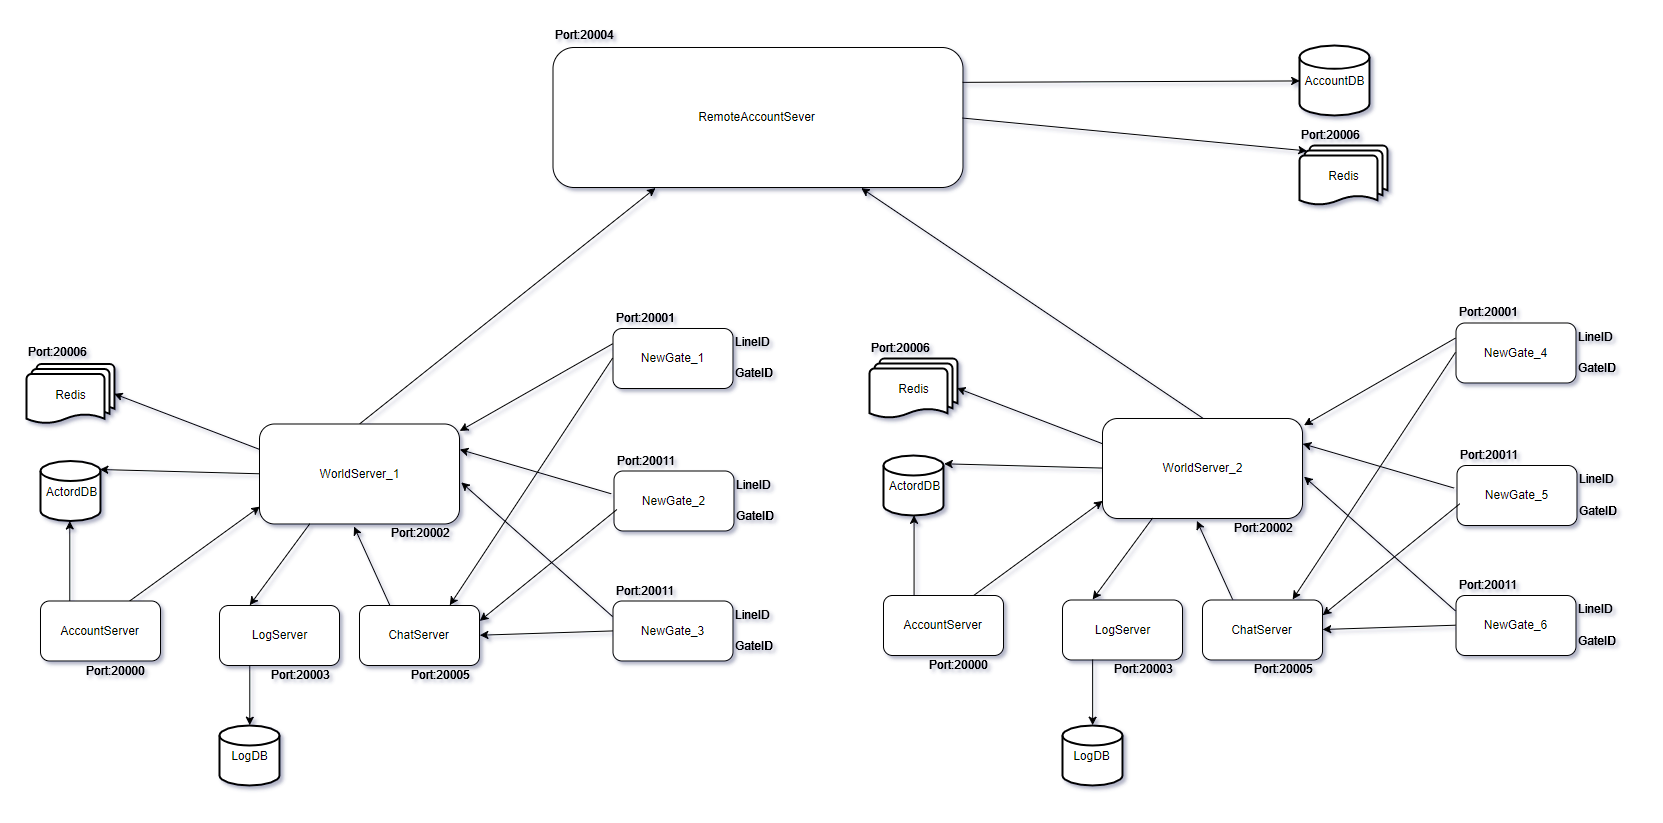
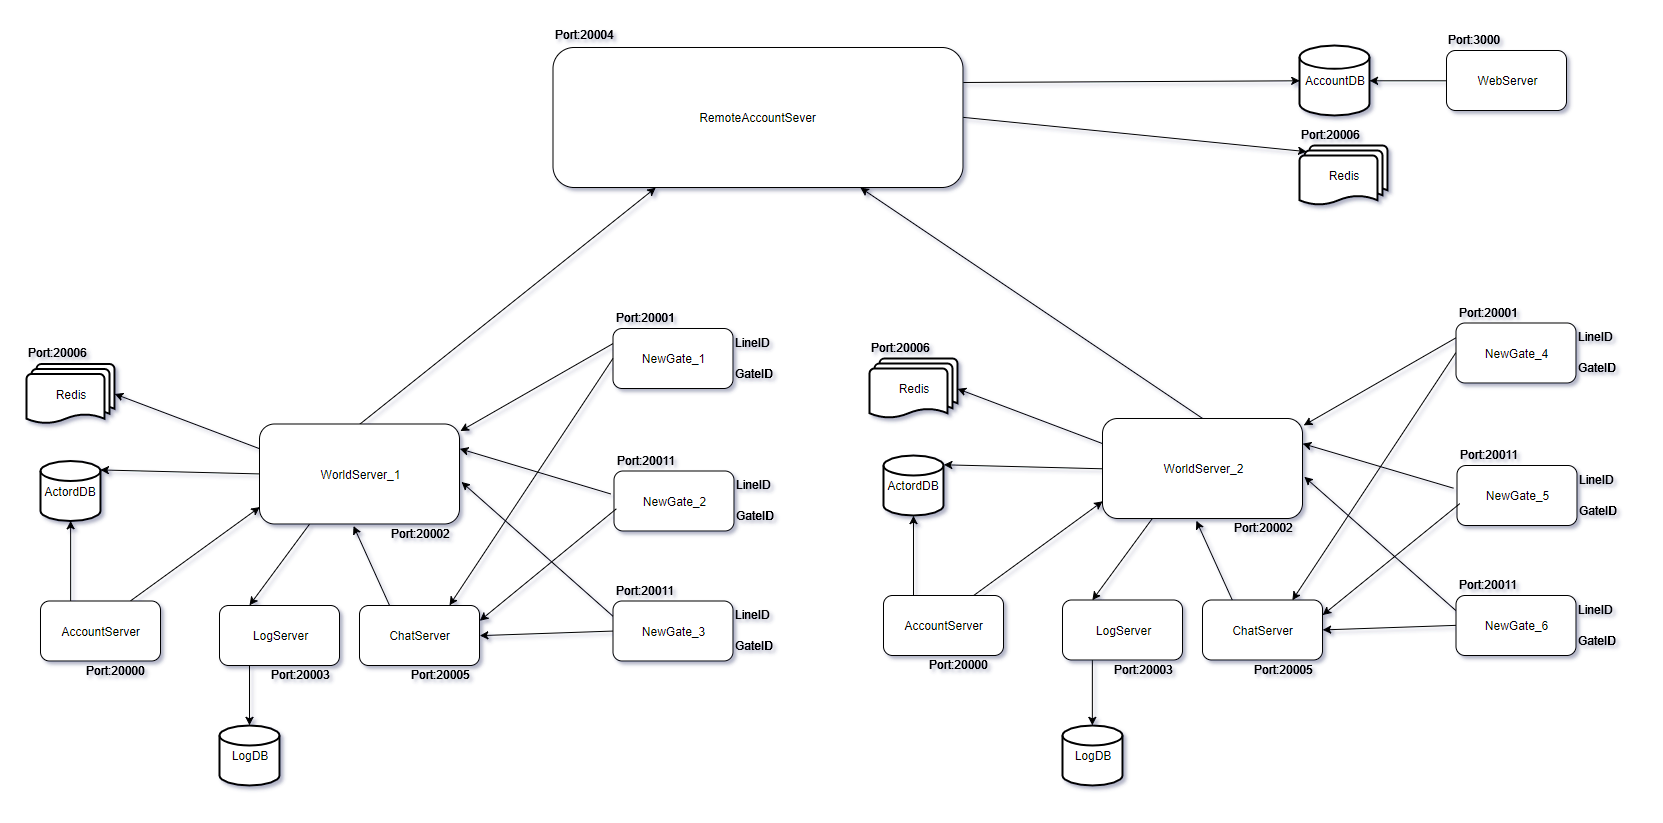
work 宫斗

diff --git a/WorkNote/宫斗开服流程.md b/WorkNote/宫斗开服流程.md
@@ -1,0 +1,83 @@
+# 宫斗开服流程
+
+## 区服部署目录结构
+
+```shell
+# -- \gd
+# -- \gd\server_1
+# -- \gd\server_1\SXZ_SERVER.CFG
+# -- \gd\server_1\bin
+# -- \gd\server_1\bin\Data
+# -- \gd\server_1\bin\Data
+# -- \gd\server_1\bin\redis
+# -- \gd\server_1\bin\Script
+# -- \gd\server_2
+# -- ...
+# -- \gd\server_3
+# -- ...
+# -- \gd\remoteAccount
+# -- \gd\run.sh
+```
+
+## 服务器架构图
+
+![服务器架构图][server_framework]
+
+### WebServer
+
+其中`WebServer`是用于 _创建账号_、_登录账号_、_发送服务器列表_ 等接口的 (**只需启动一个**)
+
+WebServer 的 运行目录是 `web-server`
+
+```shell
+# WebServer 启动方式
+nohup node.exe index.js &
+```
+
+### RemoteAccount
+
+`RemoteAccount` 是用于 _验证token_、 _验证角色登录_ 等接口的 (**只需启动一个**)
+
+配置好 `RemoteAccount`  目录下的 配置文件 `SXZ_SERVER.CFG`
+
+```config
+RemoteAccountDB_LANIP           = 127.0.0.1;
+RemoteAccountDB_Name            = BY_ACCOUNT;
+RemoteAccountDB_UserId          = sa;
+RemoteAccountDB_Password        = Sa123;
+RemoteAccount_LANAddress        = 192.168.0.40:20004;
+RemoteID                        = 1;
+RedisIp                         = 127.0.0.1;
+RedisPort                       = 20006;
+RedisPassword                   = ;
+IFM_SERVICE_NAME                = IFM_ACTIVE_SERVICE_SXZ_G;
+```
+
+### 区服开服
+
+1. 区服进程包括 `WorldServer`, `AccountServer`, `LogServer`, `ChatServer`, `NewGate`， `Redis`
+2. 部署目录请参阅上面部署目录结构 除Redis外 这些程序都放在 `\gd\server_n\bin\` 目录下
+3. 进程端口 设定规则 Port:20116, 百位数以上表示`区服区号`, 十位数表示`进程类型`, 个位数表示该类进程的某个实例id
+
+    ```C++
+    // 进程类型
+    enum ServerType {
+        Redis = 1,
+        AccountServer = 2,
+        WorldServer = 3,
+        LogServer = 4,
+        ChatServer = 5,
+        NewGate = 6,
+    }
+    ```
+
+4. 配置好 `\gd\server_n\` 目录下 配置文件 `SXZ_SERVER.CFG`
+5. 运行
+
+    ```shell
+    sh run.sh start n
+    ```
+
+---
+
+[server_framework]: https://raw.githubusercontent.com/Zirpon/hero/master/resource/宫斗服务器架构图.png "宫斗服务器架构图"
